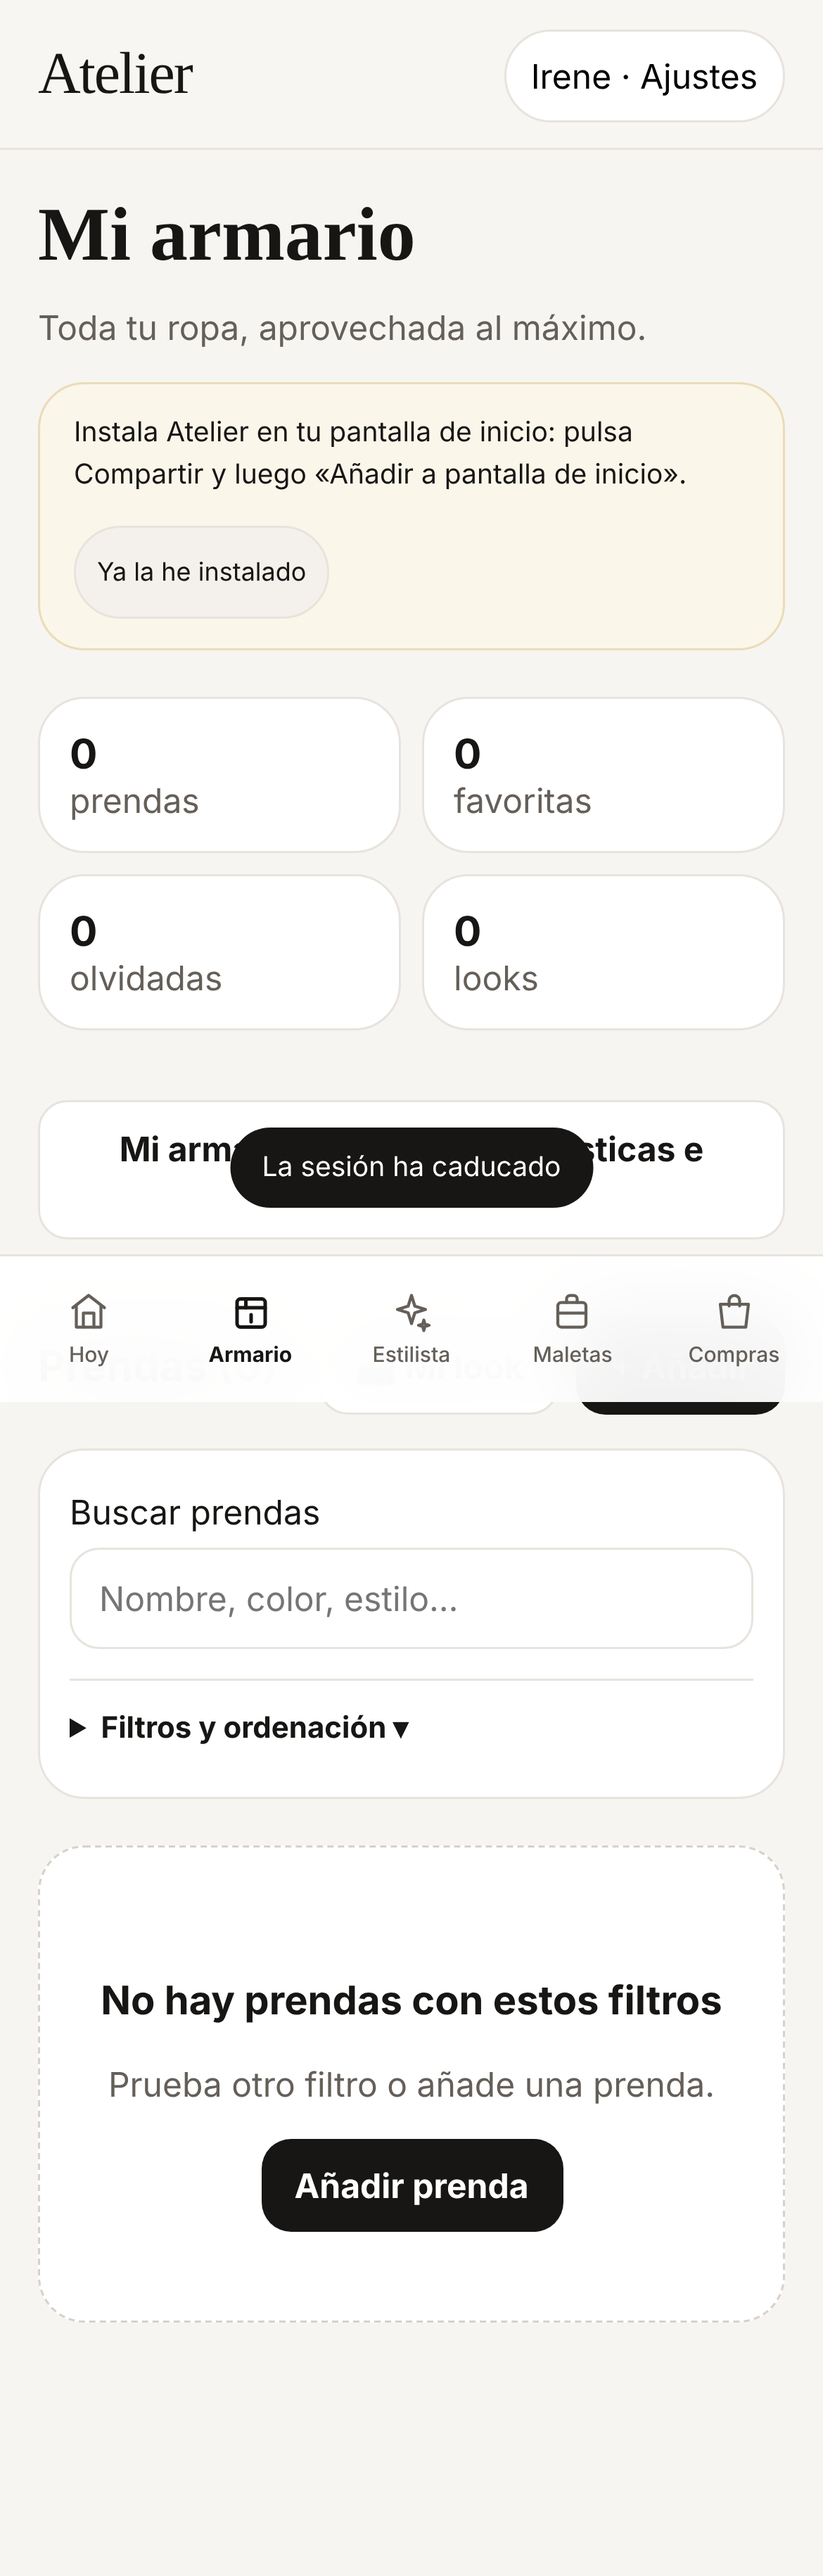
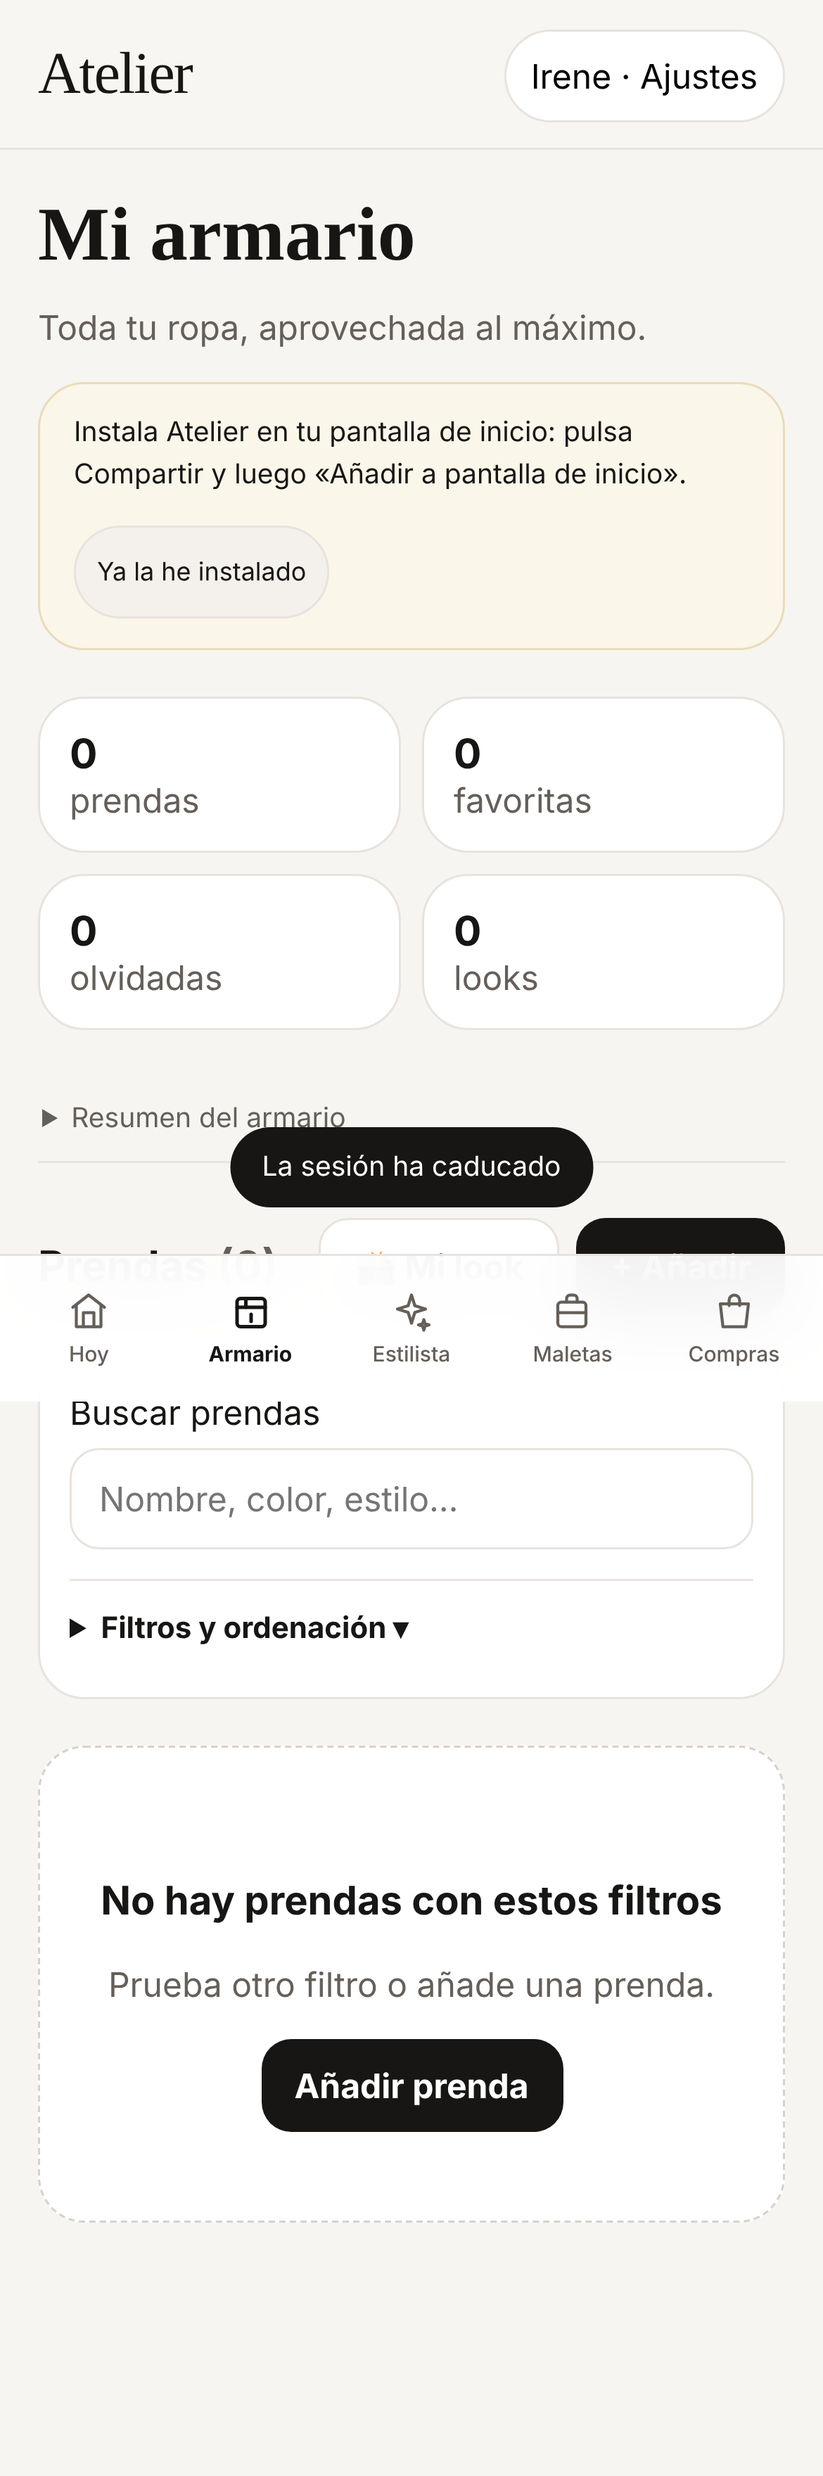
Playa: los looks llevan chanclas o sandalias
Tras #91 (calzado automático), la playa seguía en NO_SHOES_OCCASIONS y nunca llevaba calzado, aunque el motor ya filtra a sandalias, chanclas, alpargatas o zuecos en la playa. Ahora solo «Casa» va sin calzado. Prueba en security-test. Caché v76.

Claude-Session: https://claude.ai/code/session_01Knpvh4ESJhsjvD4psCnxXq

diff --git a/atelier/atelier.js b/atelier/atelier.js
@@ -1471,7 +1471,8 @@ function renderLooks(root){
 }
 /* Complementos en las propuestas: calzado y bolso se pueden quitar (preferencia por perfil).
    En «Estar en casa» y «Playa y piscina» el calzado no se añade nunca. */
-const NO_SHOES_OCCASIONS=new Set(["home","beach"]);
+// En casa, sin calzado. En la playa sí: el motor solo elige sandalias, chanclas, alpargatas o zuecos (completeOutfitGreedy)
+const NO_SHOES_OCCASIONS=new Set(["home"]);
 function lookExtras(){const occasion=appState.data.preferences.occasion||"daily";return {shoes:!NO_SHOES_OCCASIONS.has(occasion),bag:occasion!=="home"}}
 function extrasTogglesHtml(){return ""}
 function bindExtrasToggles(){}

diff --git a/atelier/sw.js b/atelier/sw.js
@@ -1,4 +1,4 @@
-const CACHE="atelier-shell-v75";
+const CACHE="atelier-shell-v76";
 const ASSETS=["./","./atelier.css","./atelier.js","./manifest.json"];
 self.addEventListener("install",event=>{
  event.waitUntil(caches.open(CACHE).then(cache=>cache.addAll(ASSETS)).then(()=>self.skipWaiting()));
